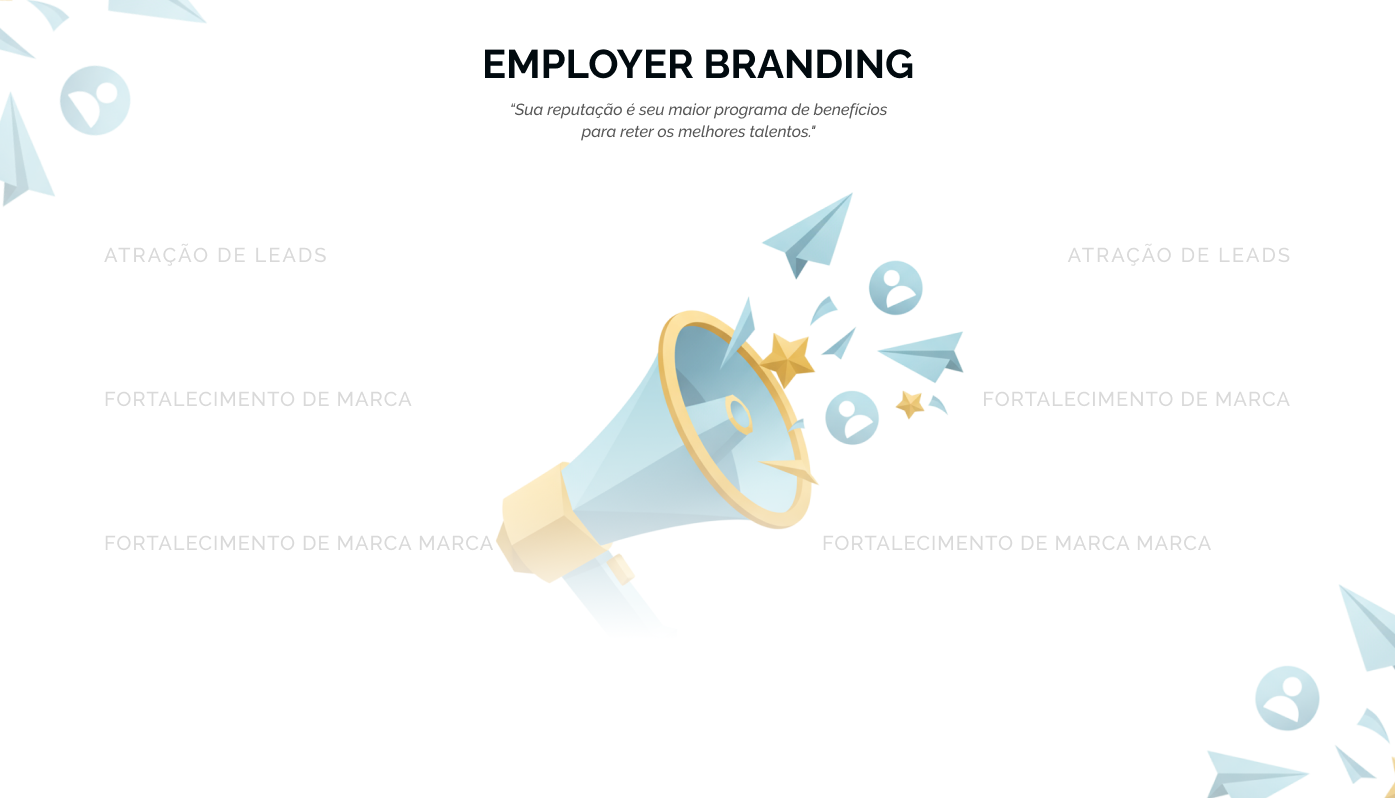
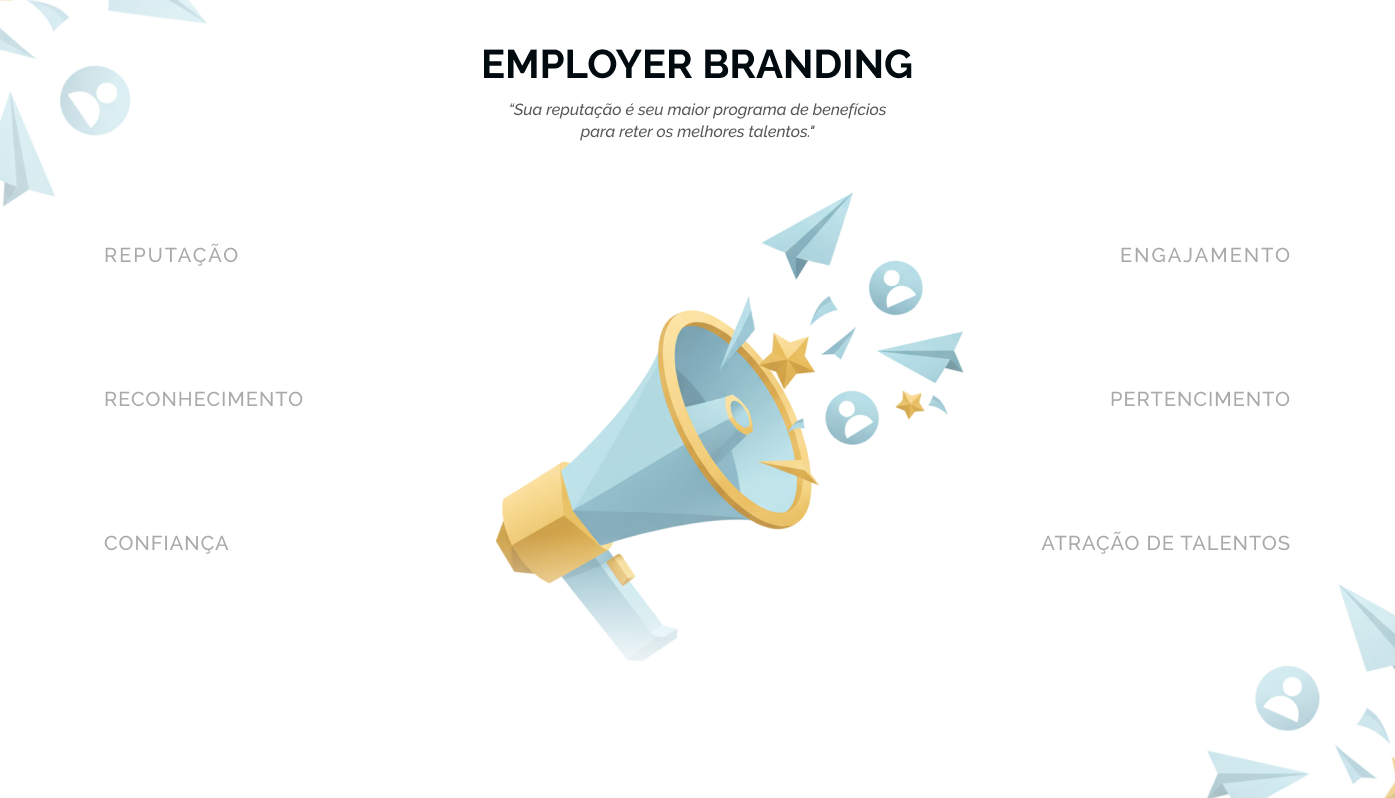
refactor: update modal component to include image gallery and improve layout; modify modal data structure for better funnel representation

diff --git a/app/content/page.tsx b/app/content/page.tsx
@@ -238,7 +238,7 @@ export default function Content() {
             <div className="flex gap-16 shrink-0">
               {mockImages.map((image, index) => (
                 <div key={`first-${index}`} className="shrink-0 w-32 h-20 flex items-center justify-center">
-                  <Image src={image.src} alt={image.alt} width={120} height={80} className="max-w-full max-h-full object-contain grayscale hover:grayscale-0 transition-all duration-300" />
+                  <Image src={image.src} alt={image.alt} width={120} height={80} className="max-w-full max object-cover grayscale hover:grayscale-0 transition-all duration-300" />
                 </div>
               ))}
             </div>
@@ -247,7 +247,7 @@ export default function Content() {
             <div className="flex gap-16 shrink-0">
               {mockImages.map((image, index) => (
                 <div key={`second-${index}`} className="shrink-0 w-32 h-20 flex items-center justify-center">
-                  <Image src={image.src} alt={image.alt} width={120} height={80} className="max-w-full max-h-full object-contain grayscale hover:grayscale-0 transition-all duration-300" />
+                  <Image src={image.src} alt={image.alt} width={120} height={80} className="max-w-full max object-cover grayscale hover:grayscale-0 transition-all duration-300" />
                 </div>
               ))}
             </div>
@@ -276,29 +276,31 @@ export default function Content() {
         <section className="flex justify-center min-h-screen py-12">
           <div className={`w-full transition-shadow duration-300 ${modalData && activeSection === "inbound" ? "shadow-[0px_4px_4px_0px_rgba(0,0,0,0.1)]" : ""}`}>
             <div className="relative flex items-center justify-center w-full h-96 md:h-screen">
-              <Image src="/INBOUND-MARKETING.png" alt="Inbound Marketing" width={1920} height={1080} className="hidden md:block w-full h-full object-contain" />
-              <Image src="/INBOUND-MARKETING-MOBILE.png" alt="Inbound Marketing" width={1920} height={1080} className="block md:hidden w-full h-full object-contain" />
+              <Image src="/INBOUND-MARKETING.png" alt="Inbound Marketing" width={1920} height={1080} className="hidden md:block w-full object-cover" />
+              <Image src="/INBOUND-MARKETING-MOBILE.png" alt="Inbound Marketing" width={1920} height={1080} className="block md:hidden w-full object-cover" />
               <div className="hidden md:flex absolute bottom-24 flex-col md:flex-row w-full justify-center items-center gap-4 z-40 px-4 md:px-0">
-                <Button color="blue" onClick={() => openModal("treinamento", "blue", "inbound", true)}>
+                {/* buttons desktop */}
+                <Button color="blue" onClick={() => openModal("topo", "blue", "inbound", true)}>
                   TOPO
                 </Button>
-                <Button color="yellow" onClick={() => openModal("cultura", "yellow", "inbound", true)}>
+                <Button color="yellow" onClick={() => openModal("meio", "yellow", "inbound", true)}>
                   MEIO
                 </Button>
-                <Button color="gray" onClick={() => openModal("proposito", "gray", "inbound", true)}>
+                <Button color="gray" onClick={() => openModal("fundo", "gray", "inbound", true)}>
                   FUNDO
                 </Button>
               </div>
             </div>
             {modalData && activeSection === "inbound" && <Modal isOpen={!!modalData} onClose={closeModal} data={modalData} color={modalColor} showSolutions={showSolutions} />}
             <div className="flex md:hidden flex-col w-full justify-center items-center gap-4 py-8 z-40 px-4">
-              <Button color="blue" onClick={() => openModal("treinamento", "blue", "inbound", false)}>
+              {/* buttons mobile */}
+              <Button color="blue" onClick={() => openModal("topo", "blue", "inbound", false)}>
                 TOPO
               </Button>
-              <Button color="yellow" onClick={() => openModal("cultura", "yellow", "inbound", true)}>
+              <Button color="yellow" onClick={() => openModal("meio", "yellow", "inbound", true)}>
                 MEIO
               </Button>
-              <Button color="gray" onClick={() => openModal("proposito", "gray", "inbound", true)}>
+              <Button color="gray" onClick={() => openModal("fundo", "gray", "inbound", true)}>
                 FUNDO
               </Button>
             </div>
@@ -308,29 +310,31 @@ export default function Content() {
         <section className="flex justify-center min-h-screen py-12">
           <div className={`w-full transition-shadow duration-300 ${modalData && activeSection === "endomarketing" ? "shadow-[0px_4px_4px_0px_rgba(0,0,0,0.1)]" : ""}`}>
             <div className="relative flex flex-col items-center justify-center w-full h-96 md:h-screen">
-              <Image src="/ENDOMARKETING.png" alt="Endomarketing" width={1920} height={1080} className="hidden md:block w-full h-full object-contain" />
-              <Image src="/ENDOMARKETING-MOBILE.png" alt="Endomarketing" width={1920} height={1080} className="block md:hidden w-full h-full object-contain" />
+              <Image src="/ENDOMARKETING.png" alt="Endomarketing" width={1920} height={1080} className="hidden md:block w-full object-cover" />
+              <Image src="/ENDOMARKETING-MOBILE.png" alt="Endomarketing" width={1920} height={1080} className="block md:hidden w-full object-cover" />
               <div className="hidden md:flex absolute bottom-24 flex-col md:flex-row w-full justify-center items-center gap-4 z-40 px-4 md:px-0">
                 <Button color="blue" onClick={() => openModal("treinamento", "blue", "endomarketing", false)}>
+                  {/* buttons desktop */}
                   TREINAMENTO
                 </Button>
-                <Button color="yellow" onClick={() => openModal("cultura", "yellow", "endomarketing", true)}>
+                <Button color="yellow" onClick={() => openModal("cultura", "yellow", "endomarketing", false)}>
                   CULTURA
                 </Button>
-                <Button color="gray" onClick={() => openModal("proposito", "gray", "endomarketing", true)}>
+                <Button color="gray" onClick={() => openModal("proposito", "gray", "endomarketing", false)}>
                   PROPÓSITO
                 </Button>
               </div>
             </div>
             {modalData && activeSection === "endomarketing" && <Modal isOpen={!!modalData} onClose={closeModal} data={modalData} color={modalColor} showSolutions={showSolutions} />}
             <div className="flex md:hidden flex-col w-full justify-center items-center gap-4 py-8 z-40 px-4">
+              {/* buttons mobile */}
               <Button color="blue" onClick={() => openModal("treinamento", "blue", "endomarketing", false)}>
                 TREINAMENTO
               </Button>
-              <Button color="yellow" onClick={() => openModal("cultura", "yellow", "endomarketing", true)}>
+              <Button color="yellow" onClick={() => openModal("cultura", "yellow", "endomarketing", false)}>
                 CULTURA
               </Button>
-              <Button color="gray" onClick={() => openModal("proposito", "gray", "endomarketing", true)}>
+              <Button color="gray" onClick={() => openModal("proposito", "gray", "endomarketing", false)}>
                 PROPÓSITO
               </Button>
             </div>
@@ -340,15 +344,17 @@ export default function Content() {
         <section className="flex justify-center min-h-screen py-12">
           <div className="w-full">
             <div className="relative flex items-center justify-center w-full h-96 md:h-screen">
-              <Image src="/EMPLOYER-BRANDING.png" alt="Employer Branding" width={1920} height={1080} className="hidden md:block w-full h-full object-contain" />
-              <Image src="/EMPLOYER-BRANDING-MOBILE.png" alt="Employer Branding" width={1920} height={1080} className="block md:hidden w-full h-full object-contain" />
+              <Image src="/EMPLOYER-BRANDING.png" alt="Employer Branding" width={1920} height={1080} className="hidden md:block w-full object-cover" />
+              <Image src="/EMPLOYER-BRANDING-MOBILE.png" alt="Employer Branding" width={1920} height={1080} className="block md:hidden w-full object-cover" />
               <div className="hidden md:flex absolute bottom-20 flex-col md:flex-row w-full justify-center items-center gap-4 z-40 px-4 md:px-0">
+                {/* Button desktop */}
                 <Button color="blue" onClick={() => openModal("marcaEmpregadora", "blue", "employer", false)}>
                   MARCA EMPREGADORA
                 </Button>
               </div>
             </div>
             <div className="flex md:hidden flex-col w-full justify-center items-center gap-4 py-8 z-40 px-4">
+              {/* Button mobile */}
               <Button color="blue" onClick={() => openModal("marcaEmpregadora", "blue", "employer", false)}>
                 MARCA EMPREGADORA
               </Button>
@@ -409,7 +415,7 @@ export default function Content() {
               <div className="grid grid-cols-4">
                 {mockImages.map((image, index) => (
                   <div key={index} className="flex items-center justify-center">
-                    <Image src={image.src} alt={image.alt} width={30} height={30} className="w-full h-auto object-contain grayscale hover:grayscale-0 transition-all" />
+                    <Image src={image.src} alt={image.alt} width={30} height={30} className="w-full object-cover grayscale hover:grayscale-0 transition-all" />
                   </div>
                 ))}
               </div>

diff --git a/app/components/Modal.tsx b/app/components/Modal.tsx
@@ -1,6 +1,7 @@
 "use client";
 
 import React, { useState, useEffect } from "react";
+import Image from "next/image";
 import { ModalData } from "../content/modalMock";
 
 interface ModalProps {
@@ -55,6 +56,9 @@ export const Modal = ({ isOpen, onClose, data, color, showSolutions = false }: M
     return item.type === carouselFilter;
   });
 
+  // Array de imagens para a galeria (substitua pelos caminhos reais das suas imagens)
+  const galleryImages = ["/amem.png", "/fair-price.png", "/cinese.png", "/amem.png", "/fair-price.png", "/cinese.png", "/amem.png", "/fair-price.png"];
+
   return (
     <>
       {/* Overlay apenas no mobile */}
@@ -62,7 +66,7 @@ export const Modal = ({ isOpen, onClose, data, color, showSolutions = false }: M
 
       {/* Modal */}
       <div className={`fixed md:relative inset-0 md:inset-auto z-50 md:z-30 w-full flex justify-center ${isClosing ? "animate-slideDown" : "animate-slideUp"}`}>
-        <div className={`relative w-full h-full md:w-[80%] md:h-auto md:-mt-30 md:rounded-2xl shadow-2xl overflow-y-auto md:overflow-hidden ${colorMap[color]}`}>
+        <div className={`relative w-full h-full md:w-[75%] md:h-auto md:-mt-30 md:rounded-2xl shadow-2xl overflow-y-auto md:overflow-hidden ${colorMap[color]}`}>
           {/* Header com botão de fechar */}
           <div className="flex items-start justify-end pt-4 px-4">
             <button
@@ -75,16 +79,16 @@ export const Modal = ({ isOpen, onClose, data, color, showSolutions = false }: M
           </div>
 
           {/* Conteúdo principal */}
-          <div className="p-4 md:p-8 lg:p-10">
+          <div className="p-4 md:p-8 ">
             <div className="flex flex-col lg:flex-row">
               {/* Lado esquerdo - Texto */}
-              <div className="flex-1">
+              <div className="lg:w-[50%]">
                 <p className="text-xs font-semibold text-gray-600 mb-2 uppercase tracking-wider">{data.category}</p>
                 <h2 className="text-3xl lg:text-4xl font-bold mb-4 text-gray-900">{data.title}</h2>
                 <p className="text-gray-700 mb-6 leading-relaxed text-sm">{data.description}</p>
 
                 {showSolutions && (
-                  <div className="mb-6 mt-3">
+                  <div className="mb-6 mt-3 ml-6">
                     <p className="font-semibold mb-3 -ml-3 text-gray-900 ">&bull; &nbsp;Soluções Indicadas:</p>
                     <ul className="">
                       {data.solutions?.map((solution, index) => (
@@ -98,11 +102,11 @@ export const Modal = ({ isOpen, onClose, data, color, showSolutions = false }: M
                     </ul>
                   </div>
                 )}
-                <div className="mb-6">
+                <div className="mb-6 ml-6">
                   <p className="font-semibold mb-3 -ml-3 text-gray-900">&bull; &nbsp;Benefícios:</p>
-                  <ul className="space-y-2">
+                  <ul className="space-y-1">
                     {data.benefits.map((benefit, index) => (
-                      <li key={index} className="flex items-start gap-2 text-sm">
+                      <li key={index} className="flex items-start gap-2 text-base">
                         <span className="text-gray-600 ">•</span>
                         <span className="text-gray-700">{benefit}</span>
                       </li>
@@ -112,9 +116,9 @@ export const Modal = ({ isOpen, onClose, data, color, showSolutions = false }: M
               </div>
 
               {/* Lado direito - Vídeo */}
-              <div className="flex-1 ">
-                <div className="relative mx-auto" style={{ aspectRatio: "9/16", maxHeight: "400px", maxWidth: "290px" }}>
-                  <video className="w-full h-full object-cover rounded-xl shadow-lg" autoPlay loop muted playsInline>
+              <div className="lg:w-[50%]">
+                <div className="relative mx-auto" style={{ aspectRatio: "9/16", maxHeight: "600px", maxWidth: "450px" }}>
+                  <video className="w-max h-full object-cover rounded-xl shadow-lg" autoPlay loop muted playsInline>
                     <source src={data.videoSrc} type="video/mp4" />
                   </video>
                 </div>
@@ -122,7 +126,7 @@ export const Modal = ({ isOpen, onClose, data, color, showSolutions = false }: M
             </div>
 
             {/* Carrossel de soluções */}
-            <div className="">
+            <div className="-mt-20">
               <h3 className="text-xl font-bold mb-6 mt-6 md:mt-0 text-gray-900">Soluções Indicadas</h3>
 
               {/* Toggle Reels/Shorts */}
@@ -140,26 +144,40 @@ export const Modal = ({ isOpen, onClose, data, color, showSolutions = false }: M
                 ))}
               </div>
 
-              {/* Carrossel */}
-              <div className="relative">
-                <div className="flex gap-4 overflow-x-auto pb-4 scrollbar-hide snap-x snap-mandatory" key={carouselFilter}>
-                  {filteredCarousel.map((item, index) => (
-                    <div
-                      key={`${carouselFilter}-${index}`}
-                      className="shrink-0 w-64 snap-start transition-all duration-500 ease-in-out"
-                      style={{
-                        animation: "fadeIn 0.5s ease-in-out",
-                      }}
-                    >
-                      <div className="relative mb-3 rounded-xl overflow-hidden bg-gray-200 aspect-video shadow-md">
-                        <video className="w-full h-full object-cover" src={typeof item.thumbnail === "string" ? item.thumbnail : undefined} muted playsInline />
-                        <div className="absolute bottom-2 right-2 bg-black/80 text-white text-xs px-2 py-1 rounded font-semibold">{item.duration}</div>
+              {/* Renderização condicional: Galeria (Campanhas) vs Carrossel (outros) */}
+              {carouselFilter === "campanhas" ? (
+                // Galeria de fotos com Grid 4 colunas e scroll interno
+                <div className="max-h-96 overflow-y-auto pr-2 scrollbar-hide">
+                  <div className="grid grid-cols-2 md:grid-cols-4 gap-4">
+                    {galleryImages.map((image, index) => (
+                      <div key={index} className="relative aspect-square rounded-lg overflow-hidden shadow-md hover:shadow-lg transition-shadow duration-300">
+                        <Image src={image} alt={`Galeria ${index + 1}`} fill className="object-cover hover:scale-110 transition-transform duration-300" />
                       </div>
-                      <p className="text-xs text-gray-600 leading-relaxed">{item.description}</p>
-                    </div>
-                  ))}
+                    ))}
+                  </div>
                 </div>
-              </div>
+              ) : (
+                // Carrossel original
+                <div className="relative">
+                  <div className="flex gap-4 overflow-x-auto pb-4 scrollbar-hide snap-x snap-mandatory" key={carouselFilter}>
+                    {filteredCarousel.map((item, index) => (
+                      <div
+                        key={`${carouselFilter}-${index}`}
+                        className="shrink-0 w-64 snap-start transition-all duration-500 ease-in-out"
+                        style={{
+                          animation: "fadeIn 0.5s ease-in-out",
+                        }}
+                      >
+                        <div className="relative mb-3 rounded-xl overflow-hidden bg-gray-200 aspect-video shadow-md">
+                          <video className="w-full h-full object-cover" src={typeof item.thumbnail === "string" ? item.thumbnail : undefined} muted playsInline />
+                          <div className="absolute bottom-2 right-2 bg-black/80 text-white text-xs px-2 py-1 rounded font-semibold">{item.duration}</div>
+                        </div>
+                        <p className="text-xs text-gray-600 leading-relaxed">{item.description}</p>
+                      </div>
+                    ))}
+                  </div>
+                </div>
+              )}
             </div>
           </div>
         </div>

diff --git a/app/content/modalMock.ts b/app/content/modalMock.ts
@@ -21,7 +21,7 @@ export interface ModalData {
 }
 
 export const modalDataMapInbound: Record<string, ModalData> = {
-  treinamento: {
+  topo: {
     category: "TOPO DE FUNIL",
     title: "ATRAÇÃO",
     solutionStrong: ["Reels e Shorts:", ""],
@@ -66,7 +66,7 @@ export const modalDataMapInbound: Record<string, ModalData> = {
       },
     ],
   },
-  cultura: {
+  meio: {
     category: "MEIO DO FUNIL",
     title: "CONSIDERAÇÃO",
     description: "Obejtivo: Nutrir leads com informações relevantes, mostrando como sua solução resolve problemas específicos.",
@@ -112,7 +112,7 @@ export const modalDataMapInbound: Record<string, ModalData> = {
       },
     ],
   },
-  proposito: {
+  fundo: {
     category: "FUNDO DO FUNIL",
     title: "DECISÃO",
     description: "Objetivo: Converter leads em clientes, incentivando a tomada de decisão com base em confiança e prova social.",
@@ -191,17 +191,10 @@ export const modalsDataMapEndomarketing: Record<string, ModalData> = {
     ],
   },
   cultura: {
-    category: "MEIO DO FUNIL",
-    title: "CONSIDERAÇÃO",
-    description: "Obejtivo: Nutrir leads com informações relevantes, mostrando como sua solução resolve problemas específicos.",
-    solutionStrong: ["Animações Explicativas:", "Video institucional:", "Branded Content:", "Vídeos Explicativos:"],
-    solutions: [
-      " Simplificação de conceitos complexos, mostrando soluções de forma didática e visual",
-      " Video institucional: Reforça a identidade da marca e comunica valores e diferenciais.",
-      "Storytelling opu documentário que emociona e iinforma, criando impacto social.",
-      "Detlaham produtos, serviços ou processos, promovendo tranquilidade e clareza.",
-    ],
-    benefits: ["Melhora o entendimento sobre os serviços ou produtos.", "Fortalece a confiança na marca como solução ideal.", "Posiciona a empresa como autoridade no segmento."],
+    category: "RECONHECIMENTO, ORGULHO E PROPÓSITO",
+    title: "VIDEOS MOTIVACIONAIS",
+    description: "Conteúdos emocionantes que destacam os valores da empresa e reconhecem o impacto dos colaboradores.",
+    benefits: ["Reforço do orgulho de fazer parte da organização.", "Alinhamento da equipe à missão da empresa.", "Criação de um ambiente de trabalho mais positivo e colaborativo."],
     videoSrc: "/videoHorizontal.mp4",
     tabs: [
       { id: "animacoes", label: "Animações Explicativas" },
@@ -237,16 +230,9 @@ export const modalsDataMapEndomarketing: Record<string, ModalData> = {
     ],
   },
   proposito: {
-    category: "FUNDO DO FUNIL",
-    title: "DECISÃO",
-    description:
-      "Objetivo: Converter leads em clientes, incentivando a tomada de decisão com base em confiança e prova social.\n\nSoluções Indicadas:\n• Videocases: Mostram resultados reais e histórias de sucesso, encurtando a jornada de compra.\n• Vídeos Publicitários: Comunicação focada em conversão, com apelo direto e criativo.\n• Campanhas de Retargeting: Vídeos curtos e segmentados para públicos que já demonstraram interesse na marca.",
-    solutionStrong: ["Videocases:", "Vídeos Publicitários:", "Campanhas de Retargeting:"],
-    solutions: [
-      " Mostram resultados reais e histórias de sucesso, encurtando a jornada de compra.",
-      " Comunicação focada em conversão, com apelo direto e criativo.",
-      " Vídeos curtos e segmentados para públicos que já demonstraram interesse na marca.",
-    ],
+    category: "CULTURA ORGANIZACIONAL, PROCESSOS",
+    title: "VIDEOS INFORMATIVOS",
+    description: "Conteúdos informativos que alinham posicionamentos, metas e culturas organizacional para um grande número de colaboradores.",
     benefits: ["Reduz o tempo para fechamento de negócios.", "Prova de confiabilidade com cases reais.", "Geração de clientes satisfeitos e fidelizados."],
     videoSrc: "/videoHorizontal.mp4",
     tabs: [
